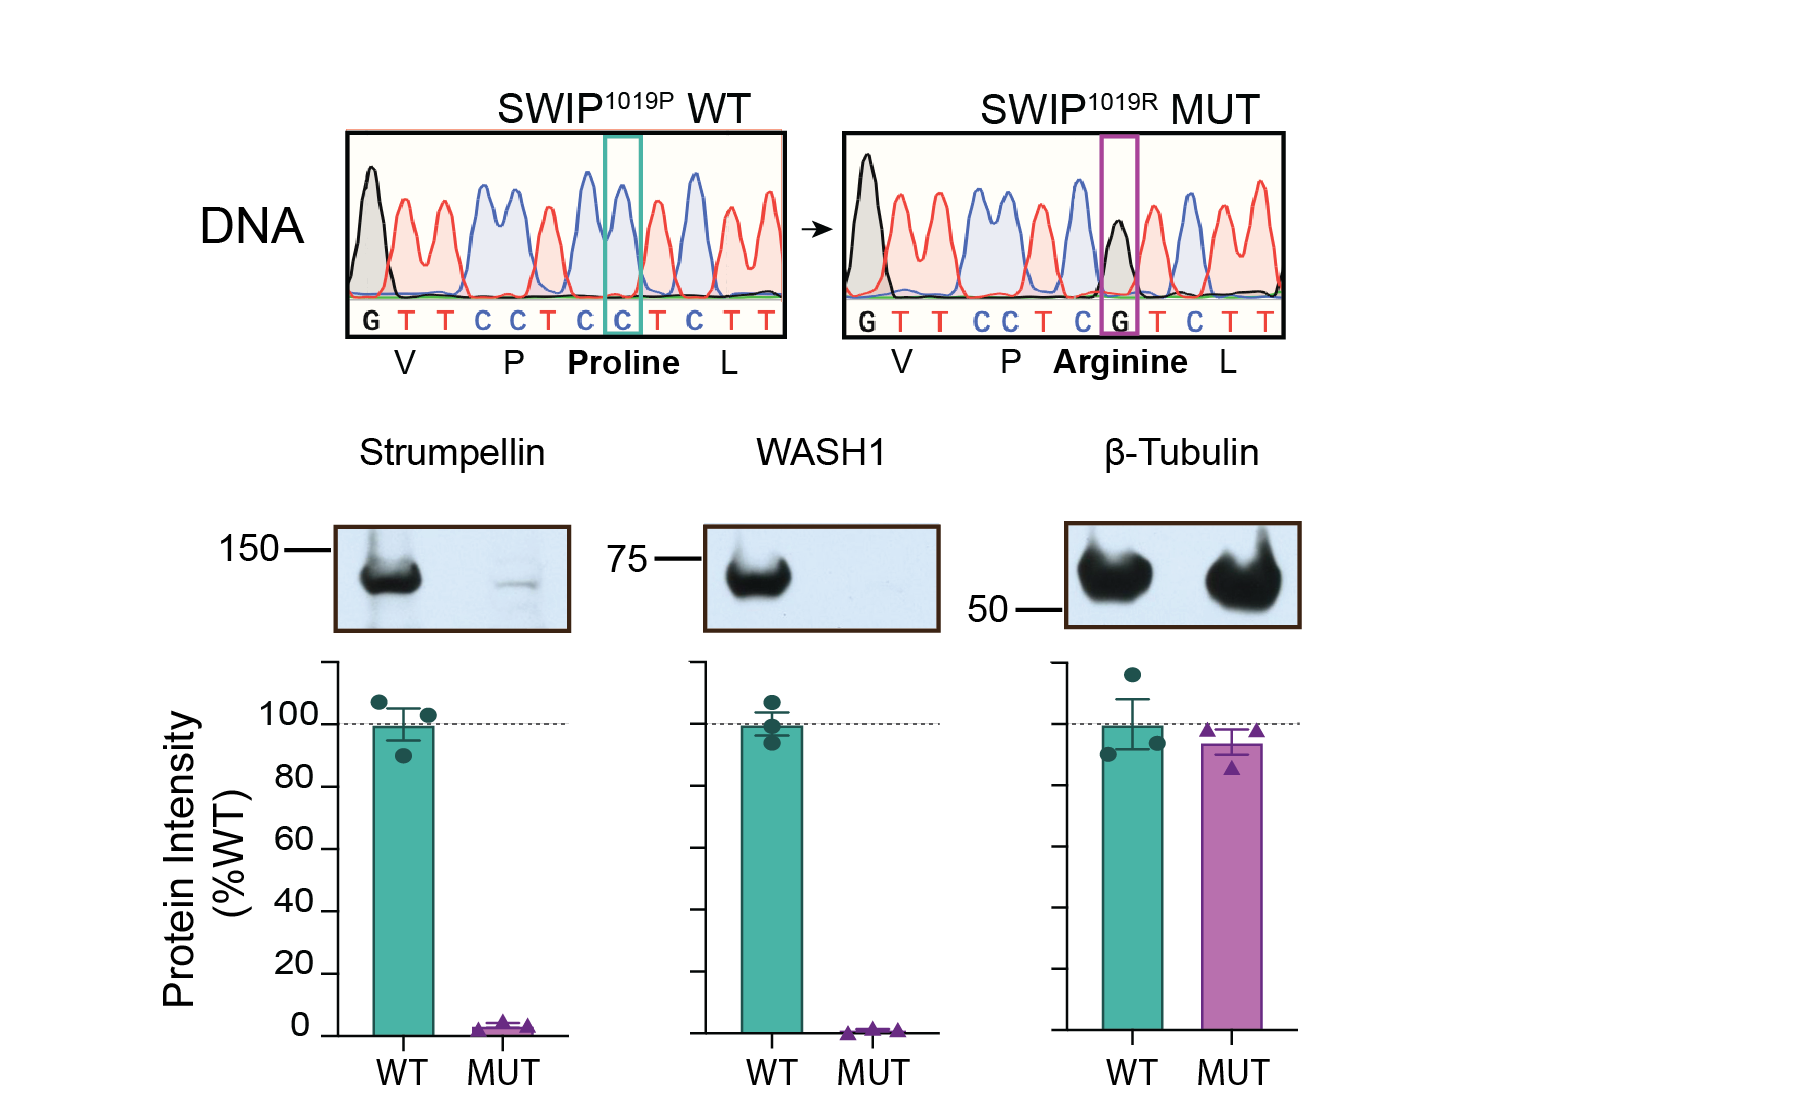
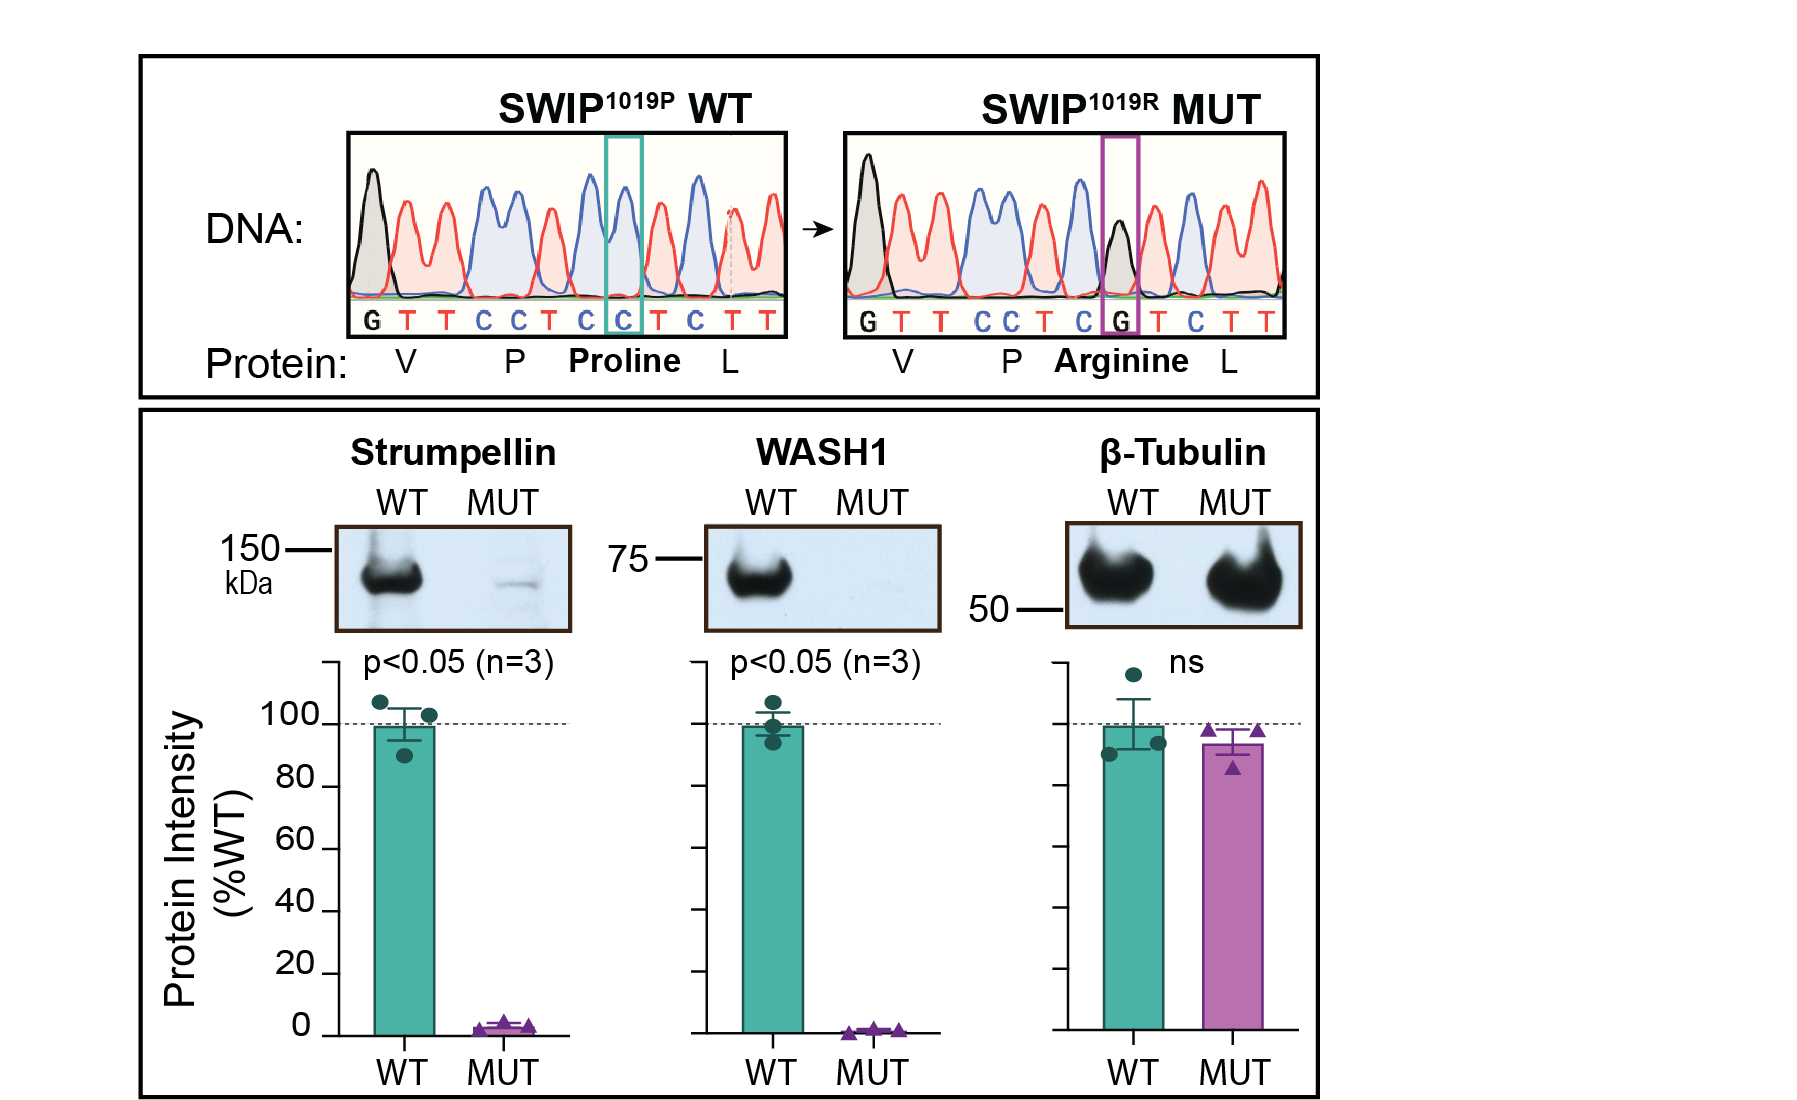
lazy git commit

Changed region(s): [[0.0624, 0.0311, 0.7483, 1.0], [0.3742, 0.8702, 0.4053, 0.9013], [0.3742, 0.7459, 0.4053, 0.777]]

diff --git a/README.md b/README.md
@@ -9,8 +9,7 @@ __Ropers _et al.___ [1] identified a non-synonymous mutation in the __WASHC4__ g
 seven children with intellectual impairment, learning and social deficits, and delayed motor development. 
 This genetic mutation causes a __P1019R__ amino acid substitution in SWIP,
 a <ins>S</ins>trumpellin and <ins>W</ins>ASH <ins>I</ins>nteracting <ins>P</ins>rotein 
-and component of the pentameric __WASH complex__.
-SWIP P1019R results in decreased SWIP and destabilizes the WASH complex. 
+and component of the pentameric __WASH complex__. 
 Below is the WASH complex as well as a model of SWIP's predicted 3D structure with the 
 position of the P1019R amino acid substitution highlighted in red.
 
@@ -20,9 +19,10 @@ position of the P1019R amino acid substitution highlighted in red.
 
 ### Genetic Disruption of WASHC4
 To study SWIP<sup>P1019R</sup>, a point mutation was made in the 
-mouse Washc4 gene using CRISPR genome editing. SWIP<sup>P1019R</sup> causes a
-drastic decrease in the abundance of __Strumpellin__ and __WASH1__ protein in
-the brains of mice. These data suggest that the entire WASH complex is
+mouse Washc4 gene using CRISPR genome editing. The abundance of 
+__Strumpellin__ and __WASH1__ is drastically reduced in the brains of 
+SWIP<sup>P1019R</sup> mutant (MUT) mice compared to WT control mice.
+These data suggest that the entire WASH complex may be
 destabilized in the presence of SWIP<sup>P1019R</sup>.
 
 <p align="center">
